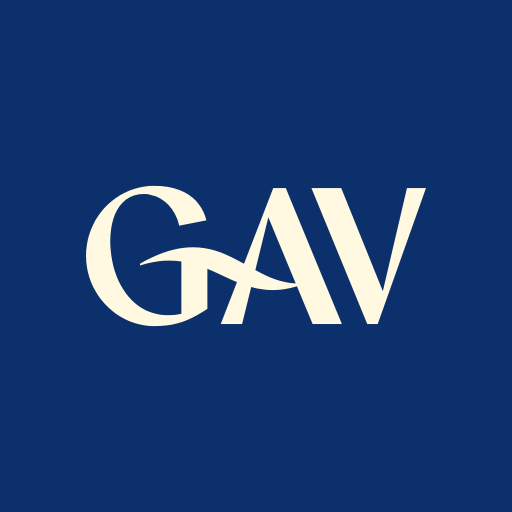
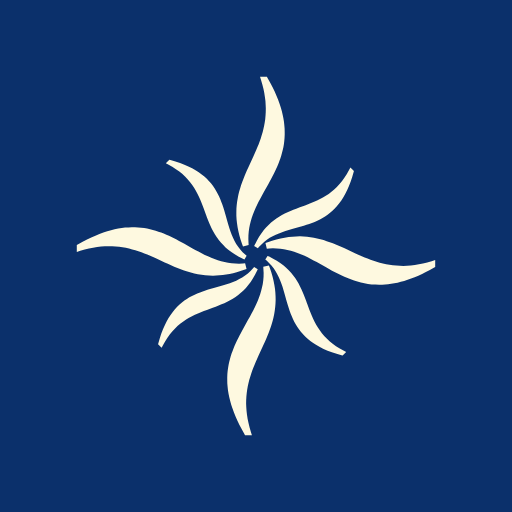
Telas públicas só com a rosa dos ventos e o nome AutorizaI
Login, cadastro, recuperação, troca de senha e abertura deixam de usar o
logotipo e o nome GAV. Título, manifesto e ícones passam a ser AutorizaI,
e a página pede para não ser indexada (noindex).

Claude-Session: https://claude.ai/code/session_014iPDsupZXQWsQByMoJSXcB

Changed region(s): [[0.125, 0.125, 0.875, 0.875]]

diff --git a/js/marcas-dados.js b/js/marcas-dados.js
@@ -1,6 +1,6 @@
 /**
- * Marcas oficiais GAV (extraídas em vetor do manual "GAV MARCAS.pptx").
- * Logotipo: ligadura G-A + V. Símbolo: rosa dos ventos com 8 pétalas (em sentido horário a partir do norte).
+ * Desenhos vetoriais usados pelo app.
+ * LOGO: logotipo (só nas telas internas, após o login). ROSA: rosa dos ventos com 8 pétalas (sentido horário a partir do norte).
  */
 export const LOGO = { w: 1000, h: 412.63, partes: ["M752.62 406.41L706.81 295.48L703.21 286.98L623.04 92.60L616.82 77.55L616.82 286.98L600.79 285.67L584.75 282.72L569.70 279.12L554.65 274.21L540.25 268.65L525.85 262.11L512.11 255.24L498.04 247.71L498.04 247.71L499.02 244.11L502.62 229.06L536.32 92.60L616.82 286.98L616.82 77.55L587.70 6.54L550.72 6.54L464.66 229.06L451.24 221.86L447.64 219.90L437.50 214.66L423.76 207.79L409.36 201.24L394.96 195.35L379.91 190.45L364.53 186.19L348.49 183.25L332.13 181.28L314.79 180.63L301.37 180.96L287.63 182.26L273.23 184.23L258.51 187.50L243.13 191.43L227.42 196.66L211.06 202.88L194.37 210.41L176.70 218.91L158.70 229.06L158.70 234.29L177.68 228.73L195.68 224.80L213.02 221.86L229.71 220.22L245.75 219.90L263.42 220.55L280.43 222.51L280.43 376.31L264.07 379.25L248.04 380.24L232.98 380.24L218.26 378.93L204.52 375.98L191.10 372.05L178.34 367.15L166.56 360.93L155.10 353.73L144.63 345.55L134.82 336.39L125.65 326.57L117.15 315.77L109.29 303.99L102.09 291.88L95.55 279.12L89.99 265.71L85.08 251.96L80.82 237.57L77.55 222.84L74.93 207.79L72.97 192.41L71.66 176.70L71.34 160.99L71.99 144.63L73.63 128.60L76.24 112.89L80.17 98.17L85.08 84.10L91.30 71.34L98.82 59.55L107.66 49.41L117.47 40.58L128.93 33.38L141.69 28.14L155.76 24.87L171.14 23.89L182.26 24.54L206.48 31.09L218.59 37.30L230.37 45.16L241.82 55.30L251.96 67.41L261.13 81.81L268.65 98.17L274.21 117.15L354.06 101.44L350.46 88.68L345.55 76.90L339.33 65.12L331.81 54.32L323.30 43.85L313.15 34.36L301.70 25.85L288.61 18.32L274.21 12.11L258.18 6.87L240.51 2.95L221.20 0.65L200.26 0.00L184.88 0.33L170.16 2.29L155.43 5.24L141.36 9.16L127.29 14.07L113.87 20.29L100.79 27.16L88.35 35.34L76.57 44.18L65.45 53.66L54.97 64.14L45.16 75.59L36.32 87.70L28.14 100.46L21.27 113.87L15.05 127.62L9.82 142.34L5.56 157.40L2.62 173.10L0.65 189.14L0.00 205.50L0.65 218.91L0.65 219.90L0.65 220.22L0.65 221.20L0.65 221.86L0.65 222.51L2.62 238.22L5.56 253.93L9.82 268.98L15.05 283.70L21.27 297.77L28.80 311.19L36.65 323.95L45.81 336.06L55.63 347.51L66.10 357.98L77.23 367.80L89.01 376.96L101.44 384.82L114.53 392.02L127.95 398.23L141.69 403.14L155.76 407.07L170.16 410.01L184.88 411.98L199.61 412.63L218.26 411.98L235.60 410.67L251.96 408.38L267.34 404.78L282.40 400.52L296.79 394.96L311.52 388.42L326.24 380.56L341.30 371.73L357.00 361.91L357.00 244.11L371.73 250.33L386.13 256.87L414.92 270.29L429.32 276.83L444.04 283.05L396.27 406.41L459.10 406.41L485.93 297.45L500.98 301.37L516.69 303.99L516.69 303.99L532.40 305.96L549.08 306.61L565.77 305.96L566.10 305.96L583.44 303.99L601.77 300.39L612.89 297.45L620.42 295.48L666.56 406.41L752.62 406.41Z","M1000.00 6.54L944.04 6.54L873.04 309.88L750.65 6.54L662.96 6.54L827.23 406.41L857.98 406.41L1000.00 6.54Z"] };
 export const ROSA = { w: 1000, h: 1000, petalas: ["M580.05 153.44L579.85 144.36L579.04 135.07L578.03 125.38L576.42 115.69L574.40 105.79L571.98 95.50L568.95 85.00L565.52 74.30L561.48 63.19L556.83 51.89L551.79 40.38L545.93 28.47L539.67 16.35L532.61 3.84L530.39 0.00L511.21 0.00L514.23 9.89L517.87 22.01L520.90 33.92L523.12 45.43L524.93 56.73L526.35 67.64L526.95 78.34L527.36 88.63L527.16 98.73L526.55 108.62L525.74 118.31L524.33 127.60L522.71 136.89L520.69 145.77L518.47 154.65L515.85 163.34L513.22 172.02L510.20 180.29L507.17 188.57L503.74 196.85L500.30 204.93L496.87 212.80L493.24 220.88L478.50 252.78L474.86 260.85L471.23 268.93L467.80 277.21L464.57 285.69L461.34 294.17L458.31 302.64L455.68 311.33L453.06 320.21L450.84 329.30L449.02 338.58L447.41 347.87L446.19 357.56L445.39 367.25L445.18 377.35L445.18 387.44L445.79 397.94L447.00 408.84L448.62 419.95L450.84 431.25L453.66 442.96L457.10 454.88L461.34 467.19L463.76 473.65L479.51 469.61L479.10 463.36L478.70 452.65L478.90 442.16L479.71 432.06L481.12 422.17L482.94 412.48L485.36 402.79L488.19 393.50L491.42 384.21L495.05 375.13L498.89 366.04L503.13 357.16L507.57 348.27L512.21 339.39L517.06 330.51L521.91 321.62L534.63 299.21L538.26 292.35L542.10 285.28L545.73 278.42L549.36 271.35L552.80 264.28L556.03 257.22L559.26 249.95L562.49 242.68L565.31 235.21L567.94 227.74L570.36 220.07L572.58 212.19L574.60 204.32L576.42 196.24L577.83 187.97L578.84 179.69L579.65 171.01L580.05 162.33L580.05 153.44Z","M773.27 262.87L763.38 252.98L759.94 259.64L753.48 270.95L747.02 281.24L740.16 290.73L733.09 299.41L725.62 307.29L718.15 314.35L710.48 320.82L702.81 326.67L694.73 331.92L686.65 336.77L678.58 341.21L670.30 345.25L662.02 348.88L653.54 352.31L645.27 355.54L636.79 358.77L620.43 364.83L612.36 367.86L604.28 370.89L596.20 374.32L588.13 377.75L580.25 381.59L572.38 385.83L564.51 390.27L556.83 395.32L549.36 400.77L542.10 406.62L535.03 413.28L527.96 420.35L521.30 428.23L514.84 436.91L508.58 446.40L502.73 456.69L497.07 468.00L496.87 468.00L494.85 472.44L505.15 478.50L507.97 475.07L515.24 467.60L522.51 460.73L530.39 454.88L538.26 449.42L546.54 444.78L555.22 440.54L563.90 436.91L572.78 433.47L582.07 430.45L591.36 427.62L600.65 424.79L618.01 419.95L625.68 417.73L633.35 415.51L641.03 413.08L648.50 410.46L656.17 407.83L663.64 404.81L671.11 401.37L678.38 397.94L685.65 393.90L692.71 389.46L699.78 384.82L706.64 379.57L713.31 373.71L719.77 367.45L726.02 360.59L732.28 353.12L738.14 344.84L743.79 335.96L749.24 326.47L754.49 315.97L759.34 304.87L763.98 292.75L768.42 279.83L772.46 265.90L773.27 262.87Z","M1000.00 511.41L990.11 514.44L990.11 514.44L977.79 518.07L965.88 520.90L954.37 523.32L943.27 525.14L932.16 526.35L921.66 527.16L911.16 527.56L901.07 527.36L891.18 526.75L881.69 525.74L872.20 524.53L863.11 522.92L854.03 520.90L845.14 518.68L836.46 516.05L827.98 513.43L819.50 510.40L811.23 507.17L803.15 503.94L795.07 500.50L787.00 497.07L779.12 493.44L747.22 478.70L739.15 475.07L730.87 471.43L722.59 468.00L714.31 464.57L705.83 461.54L697.15 458.51L688.47 455.68L679.59 453.26L670.50 451.04L661.42 449.22L651.93 447.61L642.44 446.40L632.55 445.59L622.65 445.18L612.36 445.39L601.86 445.99L591.16 447.00L580.05 448.82L568.75 451.04L557.04 453.87L544.92 457.30L532.81 461.54L526.35 463.76L530.18 479.71L536.64 479.10L547.35 478.70L557.84 478.90L567.94 479.71L577.83 481.12L587.52 482.94L597.21 485.36L606.50 488.19L615.79 491.42L624.87 495.05L633.96 498.89L642.84 503.13L651.73 507.57L660.61 512.21L669.49 517.06L678.17 521.91L695.54 531.60L703.82 536.24L712.09 540.88L720.57 545.33L729.25 549.57L737.73 553.81L746.62 557.84L755.50 561.68L764.39 565.11L773.67 568.54L782.96 571.37L792.65 574.00L802.34 576.01L812.44 577.83L822.53 579.24L833.03 579.85L843.93 580.25L852.01 580.05L860.29 579.65L868.56 578.84L877.25 577.63L885.93 576.22L895.01 574.40L904.10 572.18L913.39 569.55L923.08 566.53L932.77 563.09L942.66 559.06L952.96 554.82L963.46 549.97L973.96 544.72L985.06 539.07L996.16 532.81L1000.00 530.59L1000.00 511.41Z","M751.67 768.02L733.70 758.33L723.20 751.67L713.91 744.80L705.23 737.73L697.36 730.47L690.29 723.00L683.83 715.32L677.97 707.45L672.72 699.58L667.88 691.50L663.44 683.22L659.40 674.94L655.76 666.67L652.33 658.39L648.90 650.11L645.87 641.63L642.84 633.35L642.64 633.15L639.81 625.08L636.79 617.00L633.56 608.92L630.33 600.85L626.69 592.77L622.85 584.90L618.82 577.02L614.17 569.35L609.33 561.68L603.88 554.21L597.82 546.74L591.36 539.67L584.09 532.81L576.22 525.94L567.53 519.48L558.05 513.22L547.75 507.37L536.64 501.72L532.20 499.70L525.94 509.79L529.58 512.82L537.05 519.89L543.71 527.36L549.77 535.03L555.02 543.11L559.66 551.38L563.90 559.86L567.74 568.75L570.97 577.63L574.20 586.72L577.02 596.00L579.65 605.49L584.49 622.65L586.72 630.33L589.14 638.00L591.56 645.67L593.98 653.34L596.81 660.81L599.84 668.28L603.07 675.75L606.70 683.22L610.74 690.29L614.98 697.56L619.83 704.42L625.08 711.29L630.73 717.95L637.19 724.61L644.05 730.87L651.52 736.93L659.60 742.98L668.48 748.64L678.17 754.09L688.47 759.14L699.78 764.18L711.69 768.83L724.81 773.07L738.54 777.10L741.77 777.91L751.67 768.02Z","M554.82 622.65L554.61 612.36L554.01 601.86L553.00 591.16L551.18 580.05L548.96 568.75L546.13 557.04L542.70 545.12L538.46 532.81L536.04 526.35L520.29 530.18L520.69 536.64L521.30 547.35L521.10 557.84L520.29 567.94L518.88 577.83L516.86 587.52L514.44 597.21L511.61 606.50L508.38 615.79L504.95 624.87L500.91 633.96L496.67 642.84L492.23 651.73L487.58 660.61L482.94 669.49L477.89 678.17L465.37 700.79L461.54 707.65L457.90 714.52L454.07 721.58L450.64 728.65L447.00 735.72L443.77 742.78L440.54 750.05L437.51 757.32L434.69 764.79L431.86 772.26L429.44 779.93L427.22 787.81L425.20 795.68L423.58 803.76L422.17 812.03L420.96 820.31L420.15 828.79L419.75 837.67L419.75 846.56L419.95 855.64L420.76 864.93L421.76 874.42L423.38 884.31L425.40 894.21L428.02 904.50L430.85 915.00L434.48 925.70L438.52 936.81L442.96 948.11L448.21 959.62L453.87 971.53L460.33 983.65L467.19 996.16L469.41 1000.00L488.59 1000.00L485.56 990.11L481.93 977.99L479.10 966.08L476.68 954.57L474.86 943.27L473.65 932.36L472.84 921.66L472.44 911.37L472.64 901.27L473.25 891.38L474.26 881.69L475.47 872.40L477.08 863.11L479.10 854.03L481.32 845.35L483.95 836.66L486.78 827.98L489.60 819.71L492.83 811.43L496.06 803.15L499.50 795.07L502.93 787.20L506.56 779.12L521.30 747.22L524.93 739.15L528.57 731.07L532.00 722.79L535.43 714.31L538.46 705.83L541.49 697.36L544.32 688.47L546.74 679.79L548.96 670.70L550.98 661.42L552.39 652.13L553.60 642.44L554.41 632.75L554.82 622.65Z","M504.95 536.85L494.85 530.79L491.82 534.22L484.76 541.89L477.29 548.56L469.61 554.61L461.54 559.86L453.26 564.51L444.78 568.75L435.90 572.38L427.01 575.81L417.93 578.84L408.64 581.67L399.15 584.49L381.99 589.34L374.32 591.56L366.65 593.78L358.97 596.20L351.30 598.83L343.83 601.66L336.16 604.68L328.89 607.91L321.42 611.55L314.15 615.38L307.09 619.83L300.22 624.47L293.36 629.72L286.69 635.57L280.03 641.83L273.77 648.70L267.72 656.17L261.66 664.45L256.01 673.33L250.56 682.82L245.51 693.32L240.46 704.42L235.82 716.54L231.58 729.46L227.54 743.39L226.73 746.42L236.62 756.31L240.06 749.65L246.32 738.34L252.98 728.04L259.84 718.55L266.91 709.87L274.18 702.20L281.65 694.93L289.32 688.47L297.19 682.62L305.07 677.37L313.14 672.52L321.42 668.28L329.50 664.24L337.98 660.41L346.25 656.98L354.53 653.75L363.01 650.51L379.37 644.46L387.64 641.43L395.72 638.40L403.80 634.97L411.67 631.54L419.75 627.70L427.62 623.46L435.29 619.02L442.96 614.17L450.43 608.72L457.70 602.67L464.97 596.20L471.84 588.94L478.50 581.06L485.16 572.38L491.22 562.89L497.27 552.59L502.93 541.49L502.93 541.29L504.95 536.85Z","M473.65 536.24L469.61 520.29L463.36 520.90L452.65 521.30L442.16 521.10L432.06 520.29L421.97 518.88L412.28 517.06L402.79 514.64L393.50 511.81L384.21 508.58L375.13 504.95L366.04 500.91L357.16 496.87L348.27 492.43L339.39 487.79L330.51 482.94L321.62 478.09L299.01 465.37L292.15 461.54L285.28 457.90L278.42 454.27L271.35 450.64L264.28 447.20L257.22 443.77L249.95 440.54L242.68 437.51L235.21 434.69L227.54 432.06L220.07 429.44L212.19 427.22L204.32 425.40L196.24 423.58L187.97 422.17L179.69 421.16L171.01 420.35L162.33 419.95L153.44 419.75L144.36 420.15L134.87 420.76L125.38 421.97L115.69 423.38L105.59 425.40L95.50 428.02L85.00 431.05L74.10 434.48L63.19 438.52L51.89 443.17L40.38 448.21L28.47 453.87L16.35 460.33L3.84 467.19L0.00 469.41L0.00 488.59L9.69 485.56L22.01 482.13L33.92 479.10L45.43 476.68L56.73 474.86L67.64 473.65L78.13 472.84L88.63 472.64L98.73 472.64L108.62 473.25L118.11 474.26L127.60 475.47L136.89 477.29L145.77 479.10L154.65 481.53L163.34 483.95L171.82 486.78L180.29 489.60L188.57 492.83L196.65 496.06L204.72 499.50L212.80 502.93L220.67 506.56L245.31 517.87L253.99 521.91L262.87 525.94L271.75 529.78L280.84 533.41L289.93 537.05L299.21 540.28L308.50 543.51L318.19 546.13L327.88 548.76L337.78 550.78L348.07 552.59L358.37 553.81L369.07 554.61L379.97 554.82L379.97 554.82L388.86 554.61L397.94 554.01L407.23 553.20L416.52 551.79L426.21 549.97L436.10 547.95L446.19 545.12L456.69 542.10L467.19 538.46L473.65 536.24Z","M473.85 499.50L462.75 489.40L456.09 481.93L450.23 474.26L444.78 466.18L440.14 457.90L435.90 449.42L432.26 440.54L428.83 431.66L425.80 422.57L422.98 413.28L420.15 403.80L415.30 386.63L413.08 378.96L410.86 371.29L408.44 363.62L405.81 355.95L402.99 348.48L400.16 340.80L396.73 333.54L393.10 326.07L389.26 319.00L384.82 311.73L380.17 304.87L374.92 298.00L369.07 291.34L362.81 284.68L355.95 278.42L348.48 272.36L340.20 266.30L331.31 260.65L321.83 255.20L311.33 250.15L300.22 245.10L288.11 240.46L275.19 236.22L261.26 232.18L258.23 231.37L248.33 241.27L255.00 244.70L266.30 250.96L276.60 257.62L286.09 264.49L294.77 271.55L302.64 278.82L309.71 286.29L316.17 293.96L322.03 301.84L327.28 309.71L332.12 317.79L336.56 326.07L340.40 334.14L344.24 342.62L347.67 350.90L350.90 359.18L354.13 367.66L357.16 375.93L357.16 376.14L360.19 384.21L363.21 392.29L366.24 400.36L369.67 408.44L373.11 416.52L376.94 424.39L381.18 432.26L385.62 440.14L390.67 447.81L396.12 455.28L401.98 462.55L408.64 469.61L415.71 476.68L423.58 483.34L432.26 489.80L441.75 496.06L452.05 501.92L463.36 507.57L467.80 509.79L473.85 499.50Z"] };

diff --git a/js/marcas.js b/js/marcas.js
@@ -14,8 +14,13 @@ export function logoSvg({ classe = '', animado = false, titulo = 'GAV' } = {}) {
 
 /** Rosa dos ventos em SVG. modo: 'parada' | 'abrir' (abre uma vez) | 'girando' (abre e fica girando). */
 export function rosaSvg({ classe = '', modo = 'parada' } = {}) {
-  return raw(`<svg class="marca-rosa rosa-${modo} ${classe}" viewBox="0 0 ${ROSA.w} ${ROSA.h}" role="img" aria-label="Rosa dos ventos GAV">
+  return raw(`<svg class="marca-rosa rosa-${modo} ${classe}" viewBox="0 0 ${ROSA.w} ${ROSA.h}" role="img" aria-label="Rosa dos ventos">
     <g class="rosa-giro">${ROSA.petalas.map((d, i) => `<path d="${d}" style="--i:${i}"/>`).join('')}</g></svg>`);
+}
+
+/** Marca pública do app: só a rosa dos ventos e o nome "AutorizaI" (telas abertas, sem login). */
+export function marcaApp({ classe = '', animado = false } = {}) {
+  return raw(`<span class="marca-app ${animado ? 'animado' : ''} ${classe}">${rosaSvg({ modo: animado ? 'abrir' : 'parada' })}<span class="marca-app-nome">AutorizaI</span></span>`);
 }
 
 /** Logotipo completo com a assinatura "Hotéis e Resorts". */
@@ -28,13 +33,13 @@ const reduzMovimento = () => window.matchMedia('(prefers-reduced-motion: reduce)
 // ---------------------------------------------------------------- Abertura do app
 let aberturaMostrada = false;
 
-/** Mostra a abertura animada com o logotipo. Resolve quando ela some. */
+/** Mostra a abertura animada com a rosa dos ventos e o nome do app. Resolve quando ela some. */
 export function abertura(tempoMinimo = 2300) {
   if (aberturaMostrada) return Promise.resolve();
   aberturaMostrada = true;
   const el = document.createElement('div');
   el.className = 'abertura';
-  el.innerHTML = `${assinatura({ animado: true }).toString()}<i class="abertura-onda"></i>`;
+  el.innerHTML = `${marcaApp({ animado: true }).toString()}<i class="abertura-onda"></i>`;
   document.body.appendChild(el);
   const duracao = reduzMovimento() ? 400 : tempoMinimo;
   return new Promise(resolve => {

diff --git a/js/views/cadastro.js b/js/views/cadastro.js
@@ -1,5 +1,5 @@
 import { html, api, icone, dadosDoForm, PERFIS, porHierarquia } from '../core.js';
-import { assinatura, processando } from '../marcas.js';
+import { marcaApp, processando } from '../marcas.js';
 import { mascaraCelular, celularValido } from '../whatsapp.js';
 
 const PERFIS_DE_SALA = ['gerente', 'consultor', 'assistente'];
@@ -30,14 +30,14 @@ export default {
     return html`
       <div class="tela-auth">
         <section class="auth-marca">
-          ${assinatura({ classe: 'grande' })}
+          ${marcaApp({ classe: 'grande' })}
           <div><h2>Peça seu <em>acesso</em>.</h2>
             <p>Escolha a função que você ocupa. O master confere e libera o acesso; você recebe a confirmação por e-mail.</p></div>
-          <small>© ${new Date().getFullYear()} GAV Resorts</small>
+          <small>Uso interno · acesso restrito</small>
         </section>
         <section class="auth-form">
           <div class="caixa-auth" id="caixa-cadastro">
-            <div class="auth-logo-mobile">${assinatura({ classe: 'grande' })}</div>
+            <div class="auth-logo-mobile">${marcaApp({ classe: 'grande' })}</div>
             <h1>Criar conta</h1>
             <p style="color:var(--muted);margin:4px 0 22px">Preencha seus dados para pedir acesso.</p>
             <form id="form-cadastro" novalidate>
@@ -106,7 +106,7 @@ export default {
       delete d.confirmar;
       try {
         await processando('Enviando cadastro…', () => api('cadastro.solicitar', d));
-        el.querySelector('#caixa-cadastro').innerHTML = html`<div class="auth-logo-mobile">${assinatura({ classe: 'grande' })}</div>${telaEnviado()}`.toString();
+        el.querySelector('#caixa-cadastro').innerHTML = html`<div class="auth-logo-mobile">${marcaApp({ classe: 'grande' })}</div>${telaEnviado()}`.toString();
       } catch (e) { erro(e.message); }
     });
   },

diff --git a/css/app.css b/css/app.css
@@ -1,7 +1,6 @@
-/* GAV Hotéis e Resorts — Autorizações
-   Identidade (manual GAV MARCAS): Azul GAV #0B306B (Pantone 294 C), azul de apoio #053F9B (293 C),
-   off-white #FEF9E0 (P 1-2 C) e areia #BF8F64 / #A57A4C (2313 C / 6010 C).
-   Tipografia: Fraunces (títulos) e Motiva Sans (textos; Figtree como substituta web gratuita). */
+/* AutorizaI — estilos do app.
+   Paleta: azul #0B306B, azul de apoio #053F9B, off-white #FEF9E0 e areia #BF8F64 / #A57A4C.
+   Tipografia: Fraunces (títulos) e Figtree (textos). */
 
 :root {
   --navy-950: #071F47;
@@ -630,3 +629,13 @@ dl.dados dd { margin: 4px 0 0; font-weight: 500; word-break: break-word; }
 /* Metas das salas */
 .tabela-metas .entrada { height: 40px; max-width: 140px; }
 .tabela-metas td { padding-top: 8px; padding-bottom: 8px; }
+
+/* Marca pública do app (login e abertura): rosa dos ventos + "AutorizaI" */
+.marca-app { display: inline-flex; flex-direction: column; align-items: center; gap: .7em; color: var(--offwhite); line-height: 1; user-select: none; font-size: 10px; }
+.marca-app .marca-rosa { width: 5.6em; height: 5.6em; }
+.marca-app-nome { font-family: var(--font-display); font-weight: 600; font-size: 2.6em; letter-spacing: .01em; }
+.marca-app.grande { font-size: 13px; }
+.abertura .marca-app { font-size: 17px; }
+.marca-app.animado .marca-app-nome { opacity: 0; animation: marca-app-nome .8s cubic-bezier(.2, .7, .2, 1) .9s forwards; }
+@keyframes marca-app-nome { from { opacity: 0; transform: translateY(8px); } to { opacity: 1; transform: none; } }
+@media (prefers-reduced-motion: reduce) { .marca-app.animado .marca-app-nome { opacity: 1; animation: none; } }

diff --git a/index.html b/index.html
@@ -3,8 +3,9 @@
 <head>
   <meta charset="utf-8">
   <meta name="viewport" content="width=device-width, initial-scale=1, viewport-fit=cover">
-  <title>GAV Autorizações</title>
-  <meta name="description" content="Autorizações de vendas fora da regra — GAV Resorts">
+  <title>AutorizaI</title>
+  <meta name="description" content="AutorizaI — sistema interno de autorizações">
+  <meta name="robots" content="noindex, nofollow, noarchive">
   <meta name="theme-color" content="#0B306B">
   <link rel="manifest" href="manifest.webmanifest">
   <link rel="icon" type="image/png" sizes="32x32" href="img/favicon-32.png">
@@ -14,8 +15,8 @@
   <meta name="apple-mobile-web-app-capable" content="yes">
   <meta name="mobile-web-app-capable" content="yes">
   <meta name="apple-mobile-web-app-status-bar-style" content="black-translucent">
-  <meta name="apple-mobile-web-app-title" content="GAV Autoriza">
-  <meta name="application-name" content="GAV Autoriza">
+  <meta name="apple-mobile-web-app-title" content="AutorizaI">
+  <meta name="application-name" content="AutorizaI">
   <link rel="preconnect" href="https://fonts.googleapis.com">
   <link rel="preconnect" href="https://fonts.gstatic.com" crossorigin>
   <link href="https://fonts.googleapis.com/css2?family=Figtree:wght@400;500;600;700;800&family=Fraunces:opsz,wght@9..144,400..700&display=swap" rel="stylesheet">

diff --git a/js/views/trocar-senha.js b/js/views/trocar-senha.js
@@ -1,5 +1,5 @@
 import { html, api, sessao, icone, ocupado, dadosDoForm, toast } from '../core.js';
-import { assinatura } from '../marcas.js';
+import { marcaApp } from '../marcas.js';
 
 /** Formulário de troca de senha, reaproveitado pela tela "Meu perfil". */
 export function formSenha(obrigatoria) {
@@ -56,10 +56,10 @@ export default {
     const u = sessao.usuario;
     return html`
       <div class="tela-auth">
-        <section class="auth-marca">${assinatura({ classe: 'grande' })}<div><h2>Olá, <em>${u?.nome?.split(' ')[0] || ''}</em>.</h2>
+        <section class="auth-marca">${marcaApp({ classe: 'grande' })}<div><h2>Olá, <em>${u?.nome?.split(' ')[0] || ''}</em>.</h2>
           <p>Este é seu primeiro acesso. Defina uma senha que só você conheça.</p></div><small></small></section>
         <section class="auth-form"><div class="caixa-auth">
-          <div class="auth-logo-mobile">${assinatura({ classe: 'grande' })}</div>
+          <div class="auth-logo-mobile">${marcaApp({ classe: 'grande' })}</div>
           <h1 style="margin-bottom:18px">Criar sua senha</h1>
           ${formSenha(true)}
           <p style="text-align:center;margin-top:16px"><button class="btn btn-link" onclick="GAVSair()">Sair</button></p>

diff --git a/js/views/login.js b/js/views/login.js
@@ -1,5 +1,5 @@
 import { html, api, icone, dadosDoForm, ApiErro } from '../core.js';
-import { assinatura, processando } from '../marcas.js';
+import { marcaApp, processando } from '../marcas.js';
 
 export default {
   telaCheia: true,
@@ -7,16 +7,16 @@ export default {
     return html`
       <div class="tela-auth">
         <section class="auth-marca">
-          ${assinatura({ classe: 'grande' })}
+          ${marcaApp({ classe: 'grande' })}
           <div>
             <h2>Autorizações de vendas <em>fora da regra</em>, com rastreabilidade de ponta a ponta.</h2>
             <p>Solicite, aprove pela alçada certa e acompanhe cada exceção por sala, regional e diretoria.</p>
           </div>
-          <small>© ${new Date().getFullYear()} GAV Resorts</small>
+          <small>Uso interno · acesso restrito</small>
         </section>
         <section class="auth-form">
           <form id="form-login" novalidate>
-            <div class="auth-logo-mobile">${assinatura({ classe: 'grande' })}</div>
+            <div class="auth-logo-mobile">${marcaApp({ classe: 'grande' })}</div>
             <h1>Entrar</h1>
             <p>Use seu e-mail e senha de acesso.</p>
             <div id="erro-login"></div>

diff --git a/js/views/recuperar.js b/js/views/recuperar.js
@@ -1,5 +1,5 @@
 import { html, api, icone, dadosDoForm, toast } from '../core.js';
-import { assinatura, processando } from '../marcas.js';
+import { marcaApp, processando } from '../marcas.js';
 
 let emailInformado = '';
 
@@ -36,11 +36,11 @@ export default {
   render() {
     return html`
       <div class="tela-auth">
-        <section class="auth-marca">${assinatura({ classe: 'grande' })}
+        <section class="auth-marca">${marcaApp({ classe: 'grande' })}
           <div><h2>Recupere seu <em>acesso</em>.</h2><p>O código chega no seu e-mail e vale por 15 minutos.</p></div>
-          <small>© ${new Date().getFullYear()} GAV Resorts</small></section>
+          <small>Uso interno · acesso restrito</small></section>
         <section class="auth-form"><div class="caixa-auth">
-          <div class="auth-logo-mobile">${assinatura({ classe: 'grande' })}</div>
+          <div class="auth-logo-mobile">${marcaApp({ classe: 'grande' })}</div>
           <div id="passo">${passoEmail()}</div>
           <p style="text-align:center;margin:18px 0 0;font-size:14px"><a href="#/login">Voltar para o login</a></p>
         </div></section>

diff --git a/sw.js b/sw.js
@@ -5,7 +5,7 @@ try {
   // Sem internet na instalação: o push volta a funcionar na próxima atualização.
 }
 
-const CACHE = 'gav-autorizacoes-v8';
+const CACHE = 'gav-autorizacoes-v9';
 const ARQUIVOS = [
   './', 'index.html', 'config.js', 'manifest.webmanifest', 'css/app.css',
   'js/core.js', 'js/app.js', 'js/marcas.js', 'js/marcas-dados.js', 'js/whatsapp.js', 'js/qrcode.js', 'js/push.js', 'js/monitor-client.js', 'js/regras-pagamento.js', 'js/negociacao.js',
